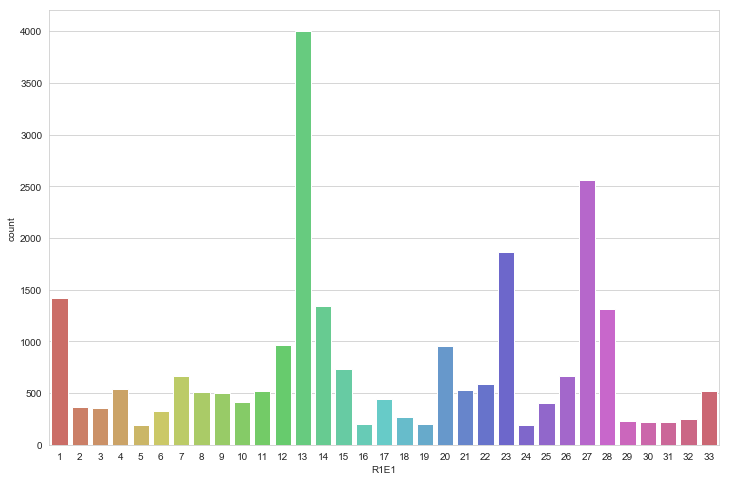
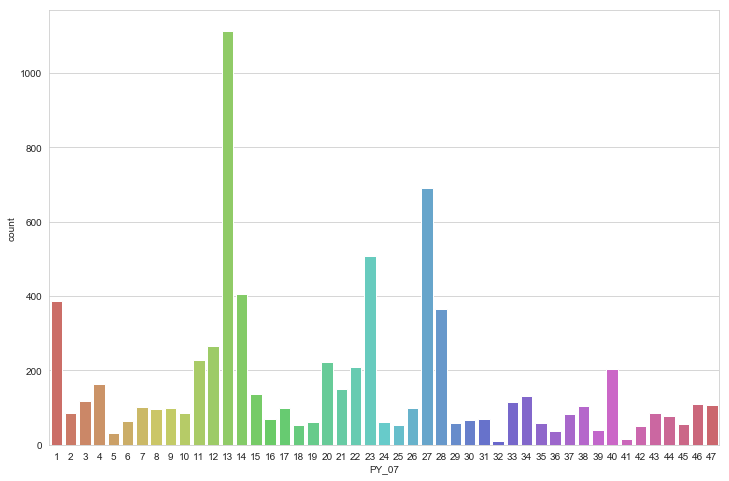
0418

diff --git a/_posts/2019-07-01-categorical_data_lookup.md b/_posts/2019-07-01-categorical_data_lookup.md
@@ -1,13 +1,13 @@
 ---
 layout: post
-title: データを理解する　〜カテゴリカル・データの確認〜
+title: カテゴリカル・データの要約
 tags: [Python, data_handling]
 excerpt_separator: <!--more-->
 ---
 
-前回の続きとして、データの中身を理解する手順を説明する。今回は、カテゴリカルデータの各要素を概観する。
+前回の続きとして、カテゴリカル・データの中身を要約し、理解を深める手順を説明する。データの理解は、分析の大前提である。
 <!--more-->
-要素の総数はもちろん、集約したり、グラフで分布のイメージを持つ。
+ここの要約では、要素の総数はもちろん、集約したり、グラフで分布のイメージを持つ。
 
 2の **「カテゴリカルデータの要素を概観する」**について説明する。
 1. そもそもデータタイプがカテゴリカル・データかどうか
@@ -29,17 +29,18 @@ excerpt_separator: <!--more-->
 ---
 
 カテゴリカル・データでは、`df.dtypes`{:style="color: blue"}  と入力すれば、どんなデータが入っているかはわかる。
-この例では、データフレーム名は`df` で、列名`Sc7Tdfk` に都道府県番号が入っている。
+この例では、データフレーム名は`df` で、列名`PY_07` に都道府県番号が入っている。
 
 {% highlight python %}
-df['Sc7Tdfk'].dtypes
+df['PY_07'].dtypes
 {% endhighlight %}
 
-結果は以下のとおりで、４７都道府県のうち１から３３番までの都道府県であることがわかる。
+結果は以下のとおりで、この列を使えば、４７都道府県ごとに分類できる。
 {% highlight python %}
 CategoricalDtype(categories=[ 1,  2,  3,  4,  5,  6,  7,  8,  9, 10, 11, 12, 13, 14, 15,
                   16, 17, 18, 19, 20, 21, 22, 23, 24, 25, 26, 27, 28, 29, 30,
-                  31, 32, 33, ],
+                  31, 32, 33, 34, 35, 36, 37, 38, 39, 40, 41, 42, 43, 44, 45,
+                  46, 47],
                  ordered=False)
 {% endhighlight %}
 
@@ -47,31 +48,44 @@ CategoricalDtype(categories=[ 1,  2,  3,  4,  5,  6,  7,  8,  9, 10, 11, 12, 13,
 このデータを使って、調べてみることにする。
 
 {% highlight python %}
-df['R1E1'].value_counts()
+df['PY_07'].value_counts()
 {% endhighlight %}
 
 結果は以下のとおり：
 
 {% highlight python %}
-13    4005
-27    2562
-23    1867
-1     1418
-14    1339
-28    1317
+13    1114
+27     691
+23     508
+14     406
+1      388
+28     364
+12     267
+11     228
+20     223
+22     208
+40     205
+4      163
+21     151
+15     136
+34     130
 
 <省略>
 
-18     264
-32     249
-29     231
-31     225
-30     219
-16     204
-19     199
-24     190
-5      188
-Name: R1E1, dtype: int64
+24      60
+29      59
+35      58
+45      55
+18      54
+25      53
+42      50
+39      41
+36      38
+5       33
+41      15
+32      10
+Name: PY_07, dtype: int64
+
 {% endhighlight %}
 
 リストを見ても中身を十分理解できないので、分布のイメージを`describe`{:style="color: blue"}  メソッドで定量的に掴む。　以下のように打つ。
@@ -81,19 +95,19 @@ Name: R1E1, dtype: int64
 
 {% highlight python %}
 # カテゴリカル・データの列にある中身を定量的に見る
-df['Sc7Tdfk'].describe()
+df['PY_07'].describe()
 {% endhighlight %}
 
 結果は以下のとおり：
 {% highlight python %}
-count     24453 
-unique       33
-top          13
-freq       4005
-Name: Sc7Tdfk, dtype: int64
+count     7507
+unique      47
+top         13
+freq      1114
+Name: PY_07, dtype: int64
 {% endhighlight %}
 
-これで、総度数（count)は、24453,　種類の総数 (unique)は、33種類。　 最も多い種類 (top)は、「13（東京都」 で、最頻値 (freq) 4005個であることがわかる。
+これで、総度数（count)は、7507,　種類の総数 (unique)は、47種類。　 最も多い種類 (top)は、「13（東京都」 で、最頻値 (freq) 1114個であることがわかる。
 
 次に、棒グラフで見てみる。
 
@@ -101,7 +115,7 @@ Name: Sc7Tdfk, dtype: int64
 # 度数分布図をseaboan 書く
 import seaborn as sb
 sb.set_style('whitegrid')
-sb.countplot(x='R1E1', data=df, palette='hls')
+sb.countplot(x='PY_07', data=df, palette='hls')
 {% endhighlight %}
 
 結果は以下のとおり：
